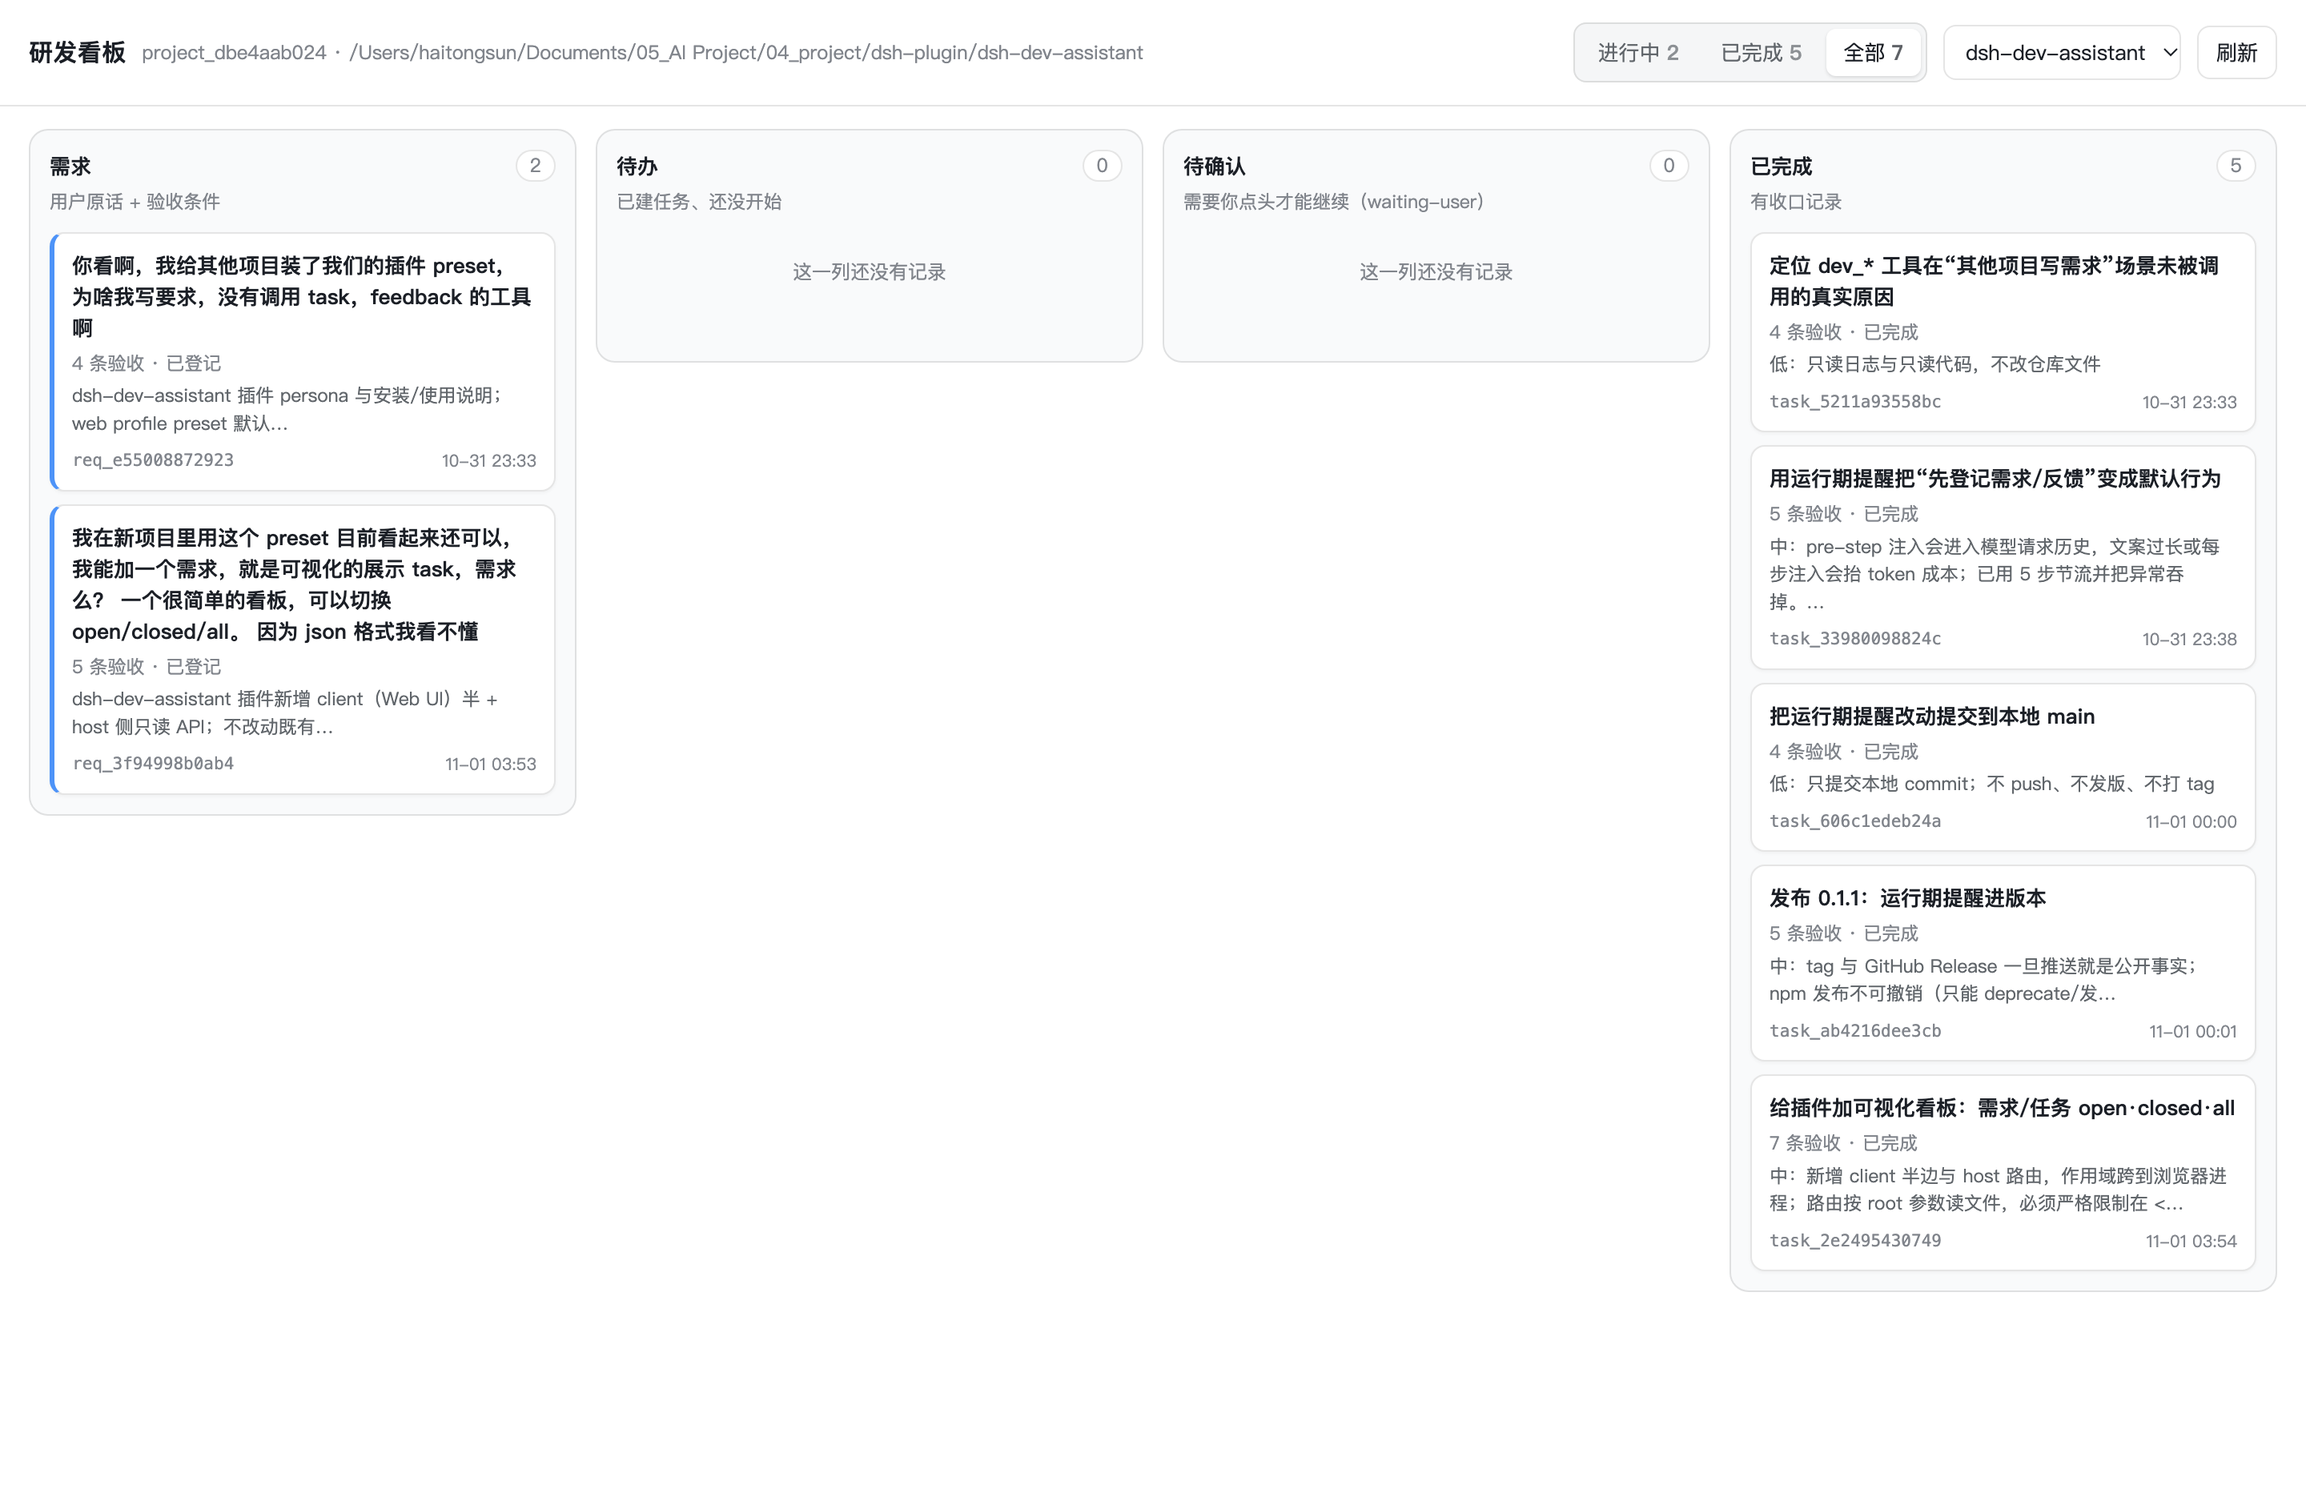
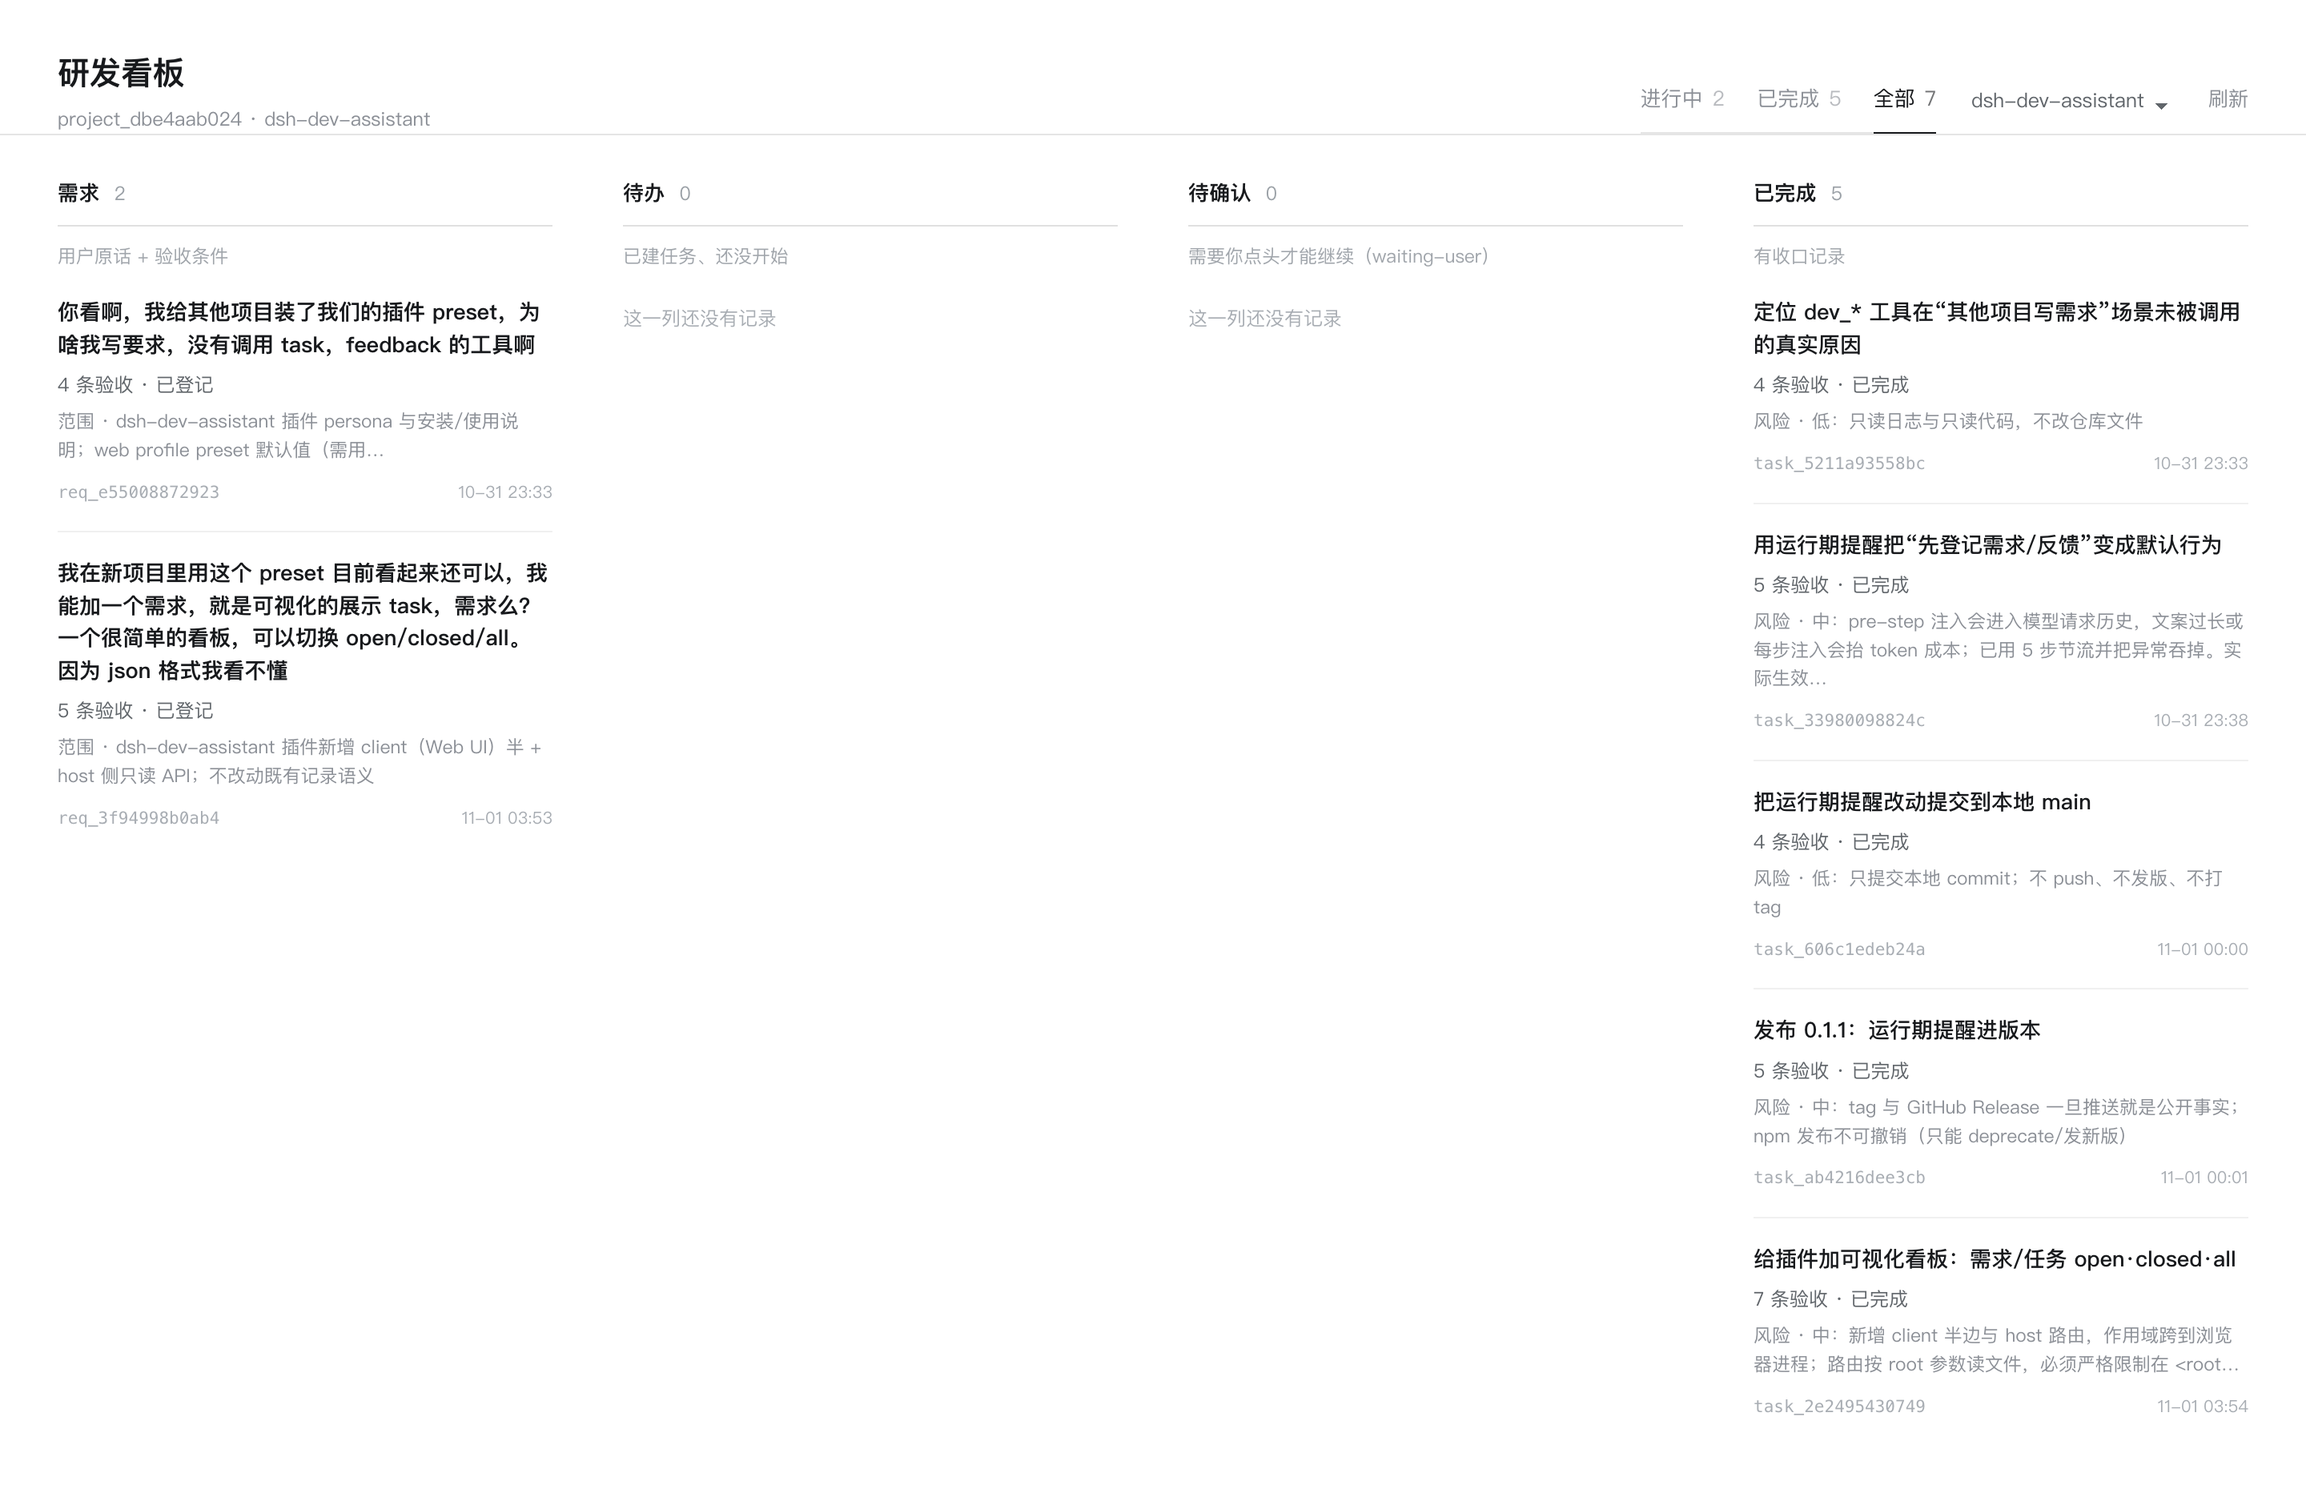
style(board): editorial layout instead of a dashboard
The board read as generated: coloured accent bars, filled pill tabs, a card
inside a column inside a bordered panel — three nested boxes to hold two lines
of text. Rebuilt the visual language around rules and whitespace:

- no accent bars, no card borders, no shadows; hairline separators only
- tabs are text with an underline; the workspace picker is borderless
- quieter header: 20px title, folder name instead of the absolute path
- readable meta, labelled 范围 · / 风险 · instead of raw field dumps
- everything still rides the shell's ui-theme tokens (light fallbacks)

diff --git a/client.js b/client.js
@@ -82,7 +82,7 @@ window.__ModuleLoader__.load({
           id: request.id,
           title: shorten(request.rawQuote, 110),
           meta: `${(request.acceptance ?? []).length} 条验收 · ${REQUEST_LABEL[request.status] ?? request.status ?? '已登记'}`,
-          note: request.scope ? shorten(request.scope, 60) : '',
+          note: request.scope ? `范围 · ${shorten(request.scope, 64)}` : '',
           time: shortTime(request.createdAt),
         })),
         queued: [],
@@ -97,7 +97,7 @@ window.__ModuleLoader__.load({
           // A task closed by a completion still carries `queued` in its own
           // record, so the label follows the column, not the stored status.
           meta: `${(task.acceptance ?? []).length} 条验收 · ${task.closed ? '已完成' : (STATUS_LABEL[task.status] ?? task.status ?? '待办')}`,
-          note: task.risk ? shorten(task.risk, 60) : '',
+          note: task.risk ? `风险 · ${shorten(task.risk, 64)}` : '',
           time: shortTime(task.createdAt),
         });
       }
@@ -134,44 +134,51 @@ window.__ModuleLoader__.load({
             : column.items.map(cardNode)));
     }
 
-    // Colours are the shell's own design tokens (ui-theme), so the board follows
-    // the app's light/dark setting instead of pinning one. Every token carries a
-    // light fallback so the offline preview — which has no shell CSS — still
-    // renders the light palette rather than an unstyled page.
+    // Editorial, not dashboard: hairline rules and whitespace carry the
+    // structure, so no card borders, no shadows, and no accent bars. Colours are
+    // the shell's own ui-theme tokens with light fallbacks, so the board follows
+    // the app's light/dark setting and the offline preview (no shell CSS) still
+    // renders the light palette.
     const CSS = `
-.dw-board{background:var(--dsw-alias-bg-base,#ffffff);color:var(--dsw-alias-label-primary,#1b1f26);
-  font:13px/1.5 ui-sans-serif,-apple-system,"PingFang SC","Microsoft YaHei",sans-serif;
-  height:100%;display:flex;flex-direction:column;min-height:0}
-.dw-bar{display:flex;gap:10px;align-items:center;padding:14px 18px;border-bottom:1px solid var(--dsw-alias-border-l2,#0000001a);flex-wrap:wrap}
-.dw-title{font-size:15px;font-weight:650;letter-spacing:.2px}
-.dw-sub{color:var(--dsw-alias-label-tertiary,#81858c);font-size:12px}
-.dw-spacer{flex:1}
-.dw-chips{display:flex;gap:4px;background:var(--dsw-static-neutral-bluish-60,#f5f6f7);border:1px solid var(--dsw-alias-border-l2,#0000001a);border-radius:8px;padding:3px}
-.dw-chip{border:0;background:transparent;color:var(--dsw-alias-label-secondary,#61666b);font:inherit;padding:5px 11px;border-radius:6px;cursor:pointer}
-.dw-chip:hover{color:var(--dsw-alias-label-primary,#1b1f26)}
-.dw-chip[data-on="1"]{background:var(--dsw-static-neutral-bluish-00,#ffffff);color:var(--dsw-alias-label-primary,#1b1f26);box-shadow:0 1px 2px #0000001f}
-.dw-chip b{font-weight:650;margin-left:4px;opacity:.7}
-.dw-select{background:var(--dsw-static-neutral-bluish-00,#ffffff);color:var(--dsw-alias-label-primary,#1b1f26);border:1px solid var(--dsw-alias-border-l2,#0000001a);border-radius:8px;padding:6px 9px;font:inherit;max-width:320px}
-.dw-refresh{background:var(--dsw-static-neutral-bluish-00,#ffffff);color:var(--dsw-alias-label-primary,#1b1f26);border:1px solid var(--dsw-alias-border-l2,#0000001a);border-radius:8px;padding:6px 11px;font:inherit;cursor:pointer}
-.dw-refresh:hover{border-color:var(--dsw-static-deepseek-400,#7aaaff);color:var(--dsw-static-deepseek-600,#4868b2)}
-.dw-cols{display:grid;grid-template-columns:repeat(auto-fit,minmax(240px,1fr));gap:12px;padding:14px 18px 20px;overflow:auto;flex:1;min-height:0;align-items:start}
-.dw-col{background:var(--dsw-specific-tip,#f9fafb);border:1px solid var(--dsw-alias-border-l2,#0000001a);border-radius:12px;padding:12px;min-height:120px}
-.dw-col-head{display:flex;align-items:center;justify-content:space-between;gap:8px}
-.dw-col-title{font-weight:650}
-.dw-col-count{font-size:12px;color:var(--dsw-alias-label-tertiary,#81858c);background:var(--dsw-static-neutral-bluish-00,#ffffff);border:1px solid var(--dsw-alias-border-l2,#0000001a);border-radius:999px;padding:0 8px}
-.dw-col-hint{margin:4px 0 10px;color:var(--dsw-alias-label-tertiary,#81858c);font-size:11.5px}
-.dw-col-body{display:flex;flex-direction:column;gap:8px}
-.dw-card{background:var(--dsw-static-neutral-bluish-00,#ffffff);border:1px solid var(--dsw-alias-border-l2,#0000001a);border-radius:9px;padding:10px 11px;box-shadow:0 1px 2px #0000000a}
-.dw-card[data-kind="request"]{border-left:3px solid var(--dsw-static-blue-450,#4d93f8)}
-.dw-card-title{font-weight:600;margin-bottom:4px;word-break:break-word}
-.dw-card-meta{color:var(--dsw-alias-label-tertiary,#81858c);font-size:11.5px}
-.dw-card-note{color:var(--dsw-alias-label-secondary,#61666b);font-size:11.5px;margin-top:3px}
-.dw-card-foot{display:flex;justify-content:space-between;gap:8px;margin-top:7px;color:var(--dsw-alias-label-tertiary,#81858c);font-size:10.5px}
-.dw-card-foot code{font-size:10.5px}
-.dw-empty{color:var(--dsw-alias-label-tertiary,#81858c);font-size:12px;text-align:center;padding:16px 0}
-.dw-state{color:var(--dsw-alias-label-secondary,#61666b);font-size:12.5px;padding:28px 20px;line-height:1.7}
-.dw-state b{color:var(--dsw-alias-label-primary,#1b1f26)}
-.dw-warn{color:var(--dsw-alias-state-error-primary,#ec1313)}
+.dw-board{background:var(--dsw-alias-bg-base,#ffffff);color:var(--dsw-alias-label-primary,#17191c);
+  font:13px/1.55 ui-sans-serif,-apple-system,"PingFang SC","Microsoft YaHei",sans-serif;
+  height:100%;display:flex;flex-direction:column;min-height:0;-webkit-font-smoothing:antialiased}
+.dw-bar{display:flex;align-items:flex-end;justify-content:space-between;gap:24px;padding:30px 36px 0;flex-wrap:wrap}
+.dw-heading{min-width:0}
+.dw-title{margin:0;font-size:20px;font-weight:600;letter-spacing:-.012em}
+.dw-sub{margin:4px 0 0;color:var(--dsw-alias-label-tertiary,#8b8f96);font-size:12px;white-space:nowrap;overflow:hidden;text-overflow:ellipsis;max-width:62ch}
+.dw-tools{display:flex;align-items:flex-end;gap:22px;flex-wrap:wrap}
+.dw-tabs{display:flex;gap:20px;border-bottom:1px solid var(--dsw-alias-border-l2,#0000001a)}
+.dw-tab{border:0;background:none;padding:0 0 11px;margin-bottom:-1px;color:var(--dsw-alias-label-tertiary,#8b8f96);font:inherit;font-size:13px;cursor:pointer;border-bottom:1px solid transparent}
+.dw-tab:hover{color:var(--dsw-alias-label-primary,#17191c)}
+.dw-tab[data-on="1"]{color:var(--dsw-alias-label-primary,#17191c);border-bottom-color:var(--dsw-alias-label-primary,#17191c)}
+.dw-tab b{margin-left:6px;font-weight:400;color:inherit;opacity:.6;font-variant-numeric:tabular-nums}
+.dw-select{appearance:none;-webkit-appearance:none;border:0;background-color:transparent;color:var(--dsw-alias-label-secondary,#61666b);font:inherit;font-size:12.5px;
+  padding:0 18px 12px 0;margin-bottom:-1px;max-width:260px;cursor:pointer;
+  background-image:linear-gradient(45deg,transparent 50%,currentColor 50%),linear-gradient(135deg,currentColor 50%,transparent 50%);
+  background-position:calc(100% - 7px) 42%,calc(100% - 3px) 42%;background-size:4px 4px,4px 4px;background-repeat:no-repeat}
+.dw-select:hover{color:var(--dsw-alias-label-primary,#17191c)}
+.dw-refresh{border:0;background:none;color:var(--dsw-alias-label-tertiary,#8b8f96);font:inherit;font-size:12.5px;padding:0 0 12px;cursor:pointer}
+.dw-refresh:hover{color:var(--dsw-alias-label-primary,#17191c)}
+.dw-cols{display:grid;grid-template-columns:repeat(auto-fit,minmax(260px,1fr));gap:44px;padding:26px 36px 48px;overflow:auto;flex:1;min-height:0;align-items:start;border-top:1px solid var(--dsw-alias-border-l2,#0000001a)}
+.dw-col{min-height:140px}
+.dw-col-head{display:flex;align-items:baseline;gap:9px;padding-bottom:10px;border-bottom:1px solid var(--dsw-alias-border-l3,#0000001f)}
+.dw-col-title{font-size:13px;font-weight:600;letter-spacing:.01em}
+.dw-col-count{font-size:12px;color:var(--dsw-alias-label-tertiary,#9aa0a6);font-variant-numeric:tabular-nums}
+.dw-col-hint{margin:10px 0 0;color:var(--dsw-alias-label-tertiary,#a0a5ab);font-size:11.5px}
+.dw-col-body{display:flex;flex-direction:column}
+.dw-card{padding:15px 0 16px;border-bottom:1px solid var(--dsw-alias-border-l1,#0000000f)}
+.dw-card:last-child{border-bottom:0}
+.dw-card-title{font-size:13.5px;font-weight:500;line-height:1.5;margin-bottom:6px;word-break:break-word}
+.dw-card[data-kind="request"] .dw-card-title{font-weight:600}
+.dw-card-meta{color:var(--dsw-alias-label-secondary,#61666b);font-size:12px;font-variant-numeric:tabular-nums}
+.dw-card-note{color:var(--dsw-alias-label-tertiary,#8b8f96);font-size:11.5px;margin-top:5px;line-height:1.55}
+.dw-card-foot{display:flex;justify-content:space-between;gap:12px;margin-top:9px;color:var(--dsw-alias-label-tertiary,#a8adb3);font-size:10.5px;font-variant-numeric:tabular-nums}
+.dw-card-foot code{font-family:ui-monospace,SFMono-Regular,Menlo,monospace;font-size:10.5px}
+.dw-empty{color:var(--dsw-alias-label-tertiary,#a8adb3);font-size:12px;padding:20px 0}
+.dw-state{color:var(--dsw-alias-label-secondary,#61666b);font-size:12.5px;padding:34px 36px;line-height:1.8}
+.dw-state b{color:var(--dsw-alias-label-primary,#17191c);font-weight:600}
+.dw-warn{color:var(--dsw-alias-state-error-primary,#c0392b);margin:4px 0}
 `;
 
     function useWorkspaceStore(store) {
@@ -235,23 +242,25 @@ window.__ModuleLoader__.load({
       return h('div', { className: 'dw-board' },
         h('style', { dangerouslySetInnerHTML: { __html: CSS } }),
         h('div', { className: 'dw-bar' },
-          h('span', { className: 'dw-title' }, '研发看板'),
-          h('span', { className: 'dw-sub' }, board?.projectId ? `${board.projectId} · ${board.root}` : '读取 `.dsh-dev` 记录'),
-          h('span', { className: 'dw-spacer' }),
-          h('div', { className: 'dw-chips', role: 'tablist' }, FILTERS.map((option) => h('button', {
-            key: option.id,
-            type: 'button',
-            className: 'dw-chip',
-            'data-on': filter === option.id ? '1' : '0',
-            onClick: () => setFilter(option.id),
-          }, option.label, h('b', null, String(view.counts[option.id]))))),
-          h('select', {
+          h('div', { className: 'dw-heading' },
+            h('h1', { className: 'dw-title' }, '研发看板'),
+            h('p', { className: 'dw-sub', title: board?.root ?? '' },
+              board?.projectId ? `${board.projectId} · ${board.root.split('/').pop()}` : '读取 .dsh-dev 记录')),
+          h('div', { className: 'dw-tools' },
+            h('div', { className: 'dw-tabs', role: 'tablist' }, FILTERS.map((option) => h('button', {
+              key: option.id,
+              type: 'button',
+              className: 'dw-tab',
+              'data-on': filter === option.id ? '1' : '0',
+              onClick: () => setFilter(option.id),
+            }, option.label, h('b', null, String(view.counts[option.id]))))),
+            h('select', {
             className: 'dw-select',
             value: active,
             'aria-label': '选择工作区',
             onChange: (event) => choose(event.target.value),
           }, options.map((option) => h('option', { key: option.id, value: option.id }, option.label))),
-          h('button', { type: 'button', className: 'dw-refresh', onClick: () => setTick((value) => value + 1) }, loading ? '刷新中…' : '刷新')),
+            h('button', { type: 'button', className: 'dw-refresh', onClick: () => setTick((value) => value + 1) }, loading ? '刷新中…' : '刷新'))),
         error
           ? h('div', { className: 'dw-state' }, h('b', null, '看板读不到这台机器的记录。'), h('div', { className: 'dw-warn' }, error),
             h('div', null, '会话与 dev_* 工具不受影响；确认 dsh web 已重启到带看板版本的插件。'))

diff --git a/CHANGELOG.md b/CHANGELOG.md
@@ -14,6 +14,9 @@
   completions；非绝对路径、不存在、指向文件一律 400；响应 `cache-control: no-store`。
 - **状态推导**：任务「已完成」= 自身 `succeeded/cancelled`，或在 `completions.jsonl` 里有收口
   记录（`dev_complete` 从不回写 tasks.jsonl）。
+- **视觉**：编辑式排版——发丝分隔线、无卡片边框与阴影、无彩色强调条；配色改用 shell 的
+  ui-theme 设计变量（浅色回退），跟随应用浅/深主题。卡片上的范围/风险字段加了标签前缀，
+  标题栏只显示项目 id 与工作区目录名（完整路径进 tooltip）。
 - **离线预览 harness**：`npm run preview` 用 `readBoard()` 的真实数据 + client 的同一套
   `collect()` / `columnNode()` / CSS 渲染，再用本机 Chrome 截图到 `docs/preview-board.png`。
 
